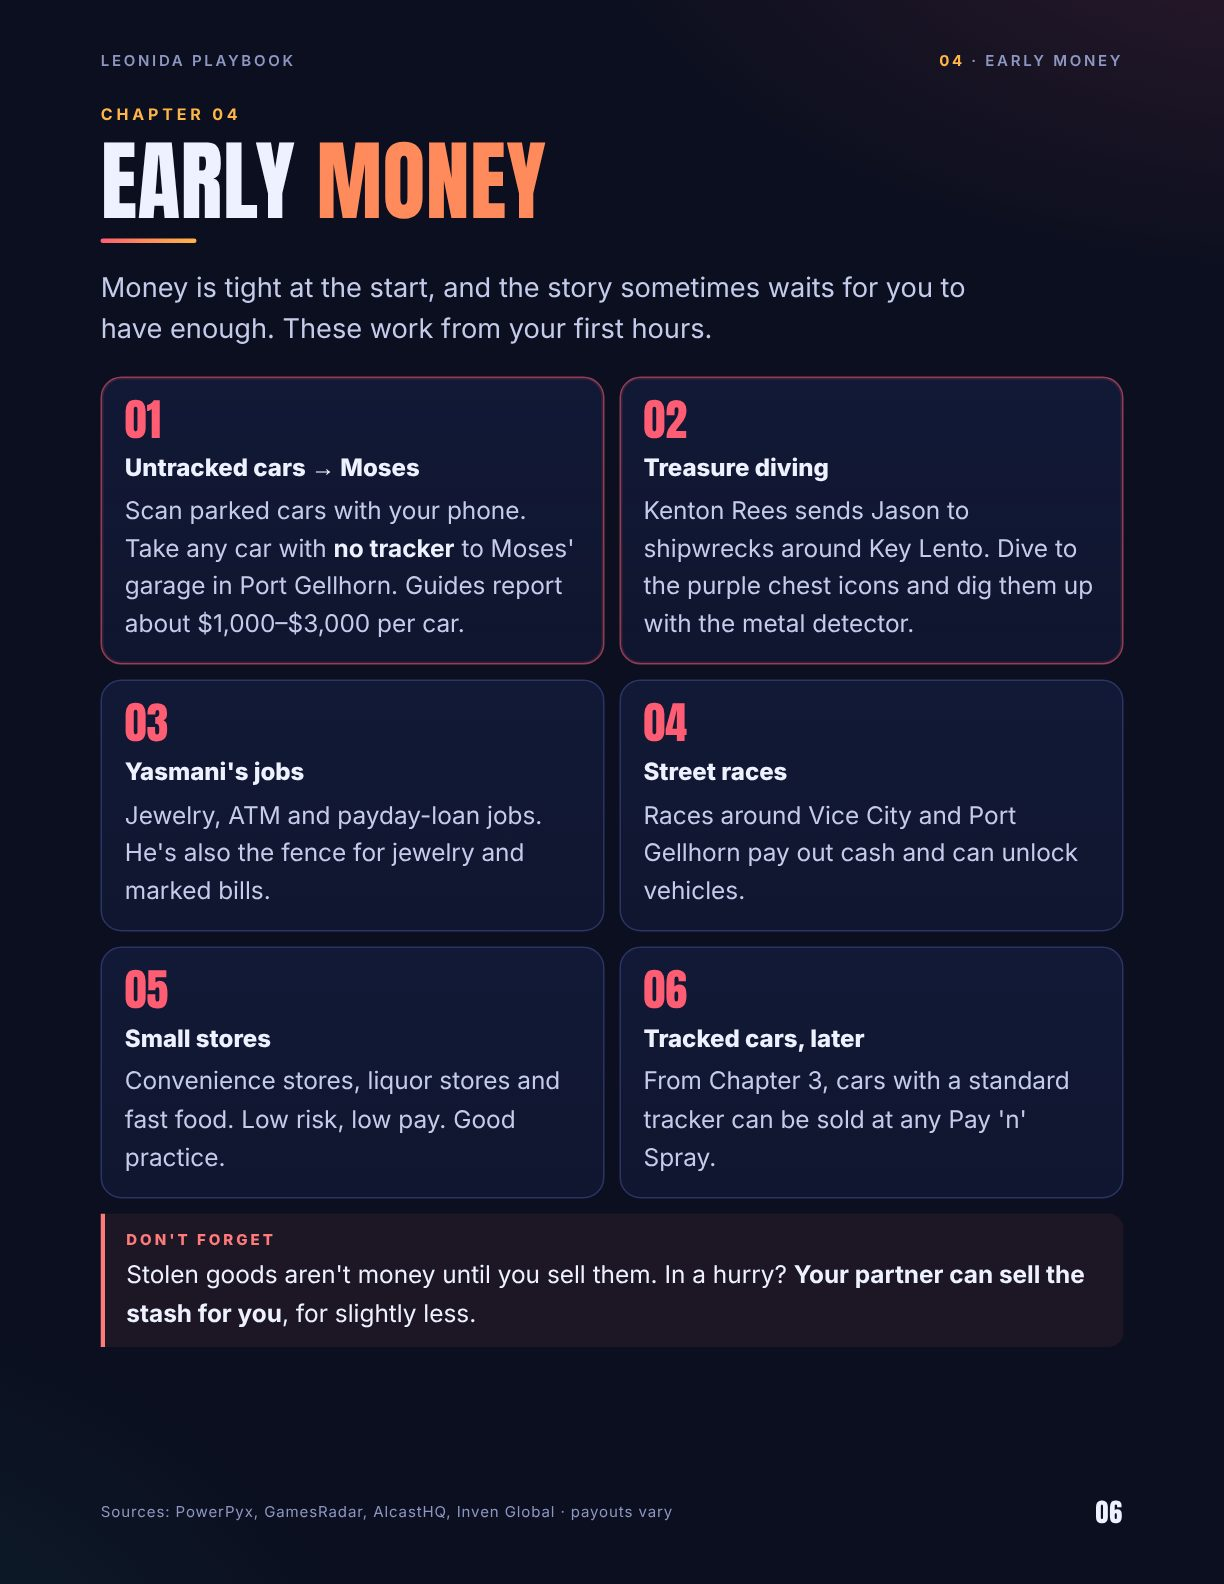
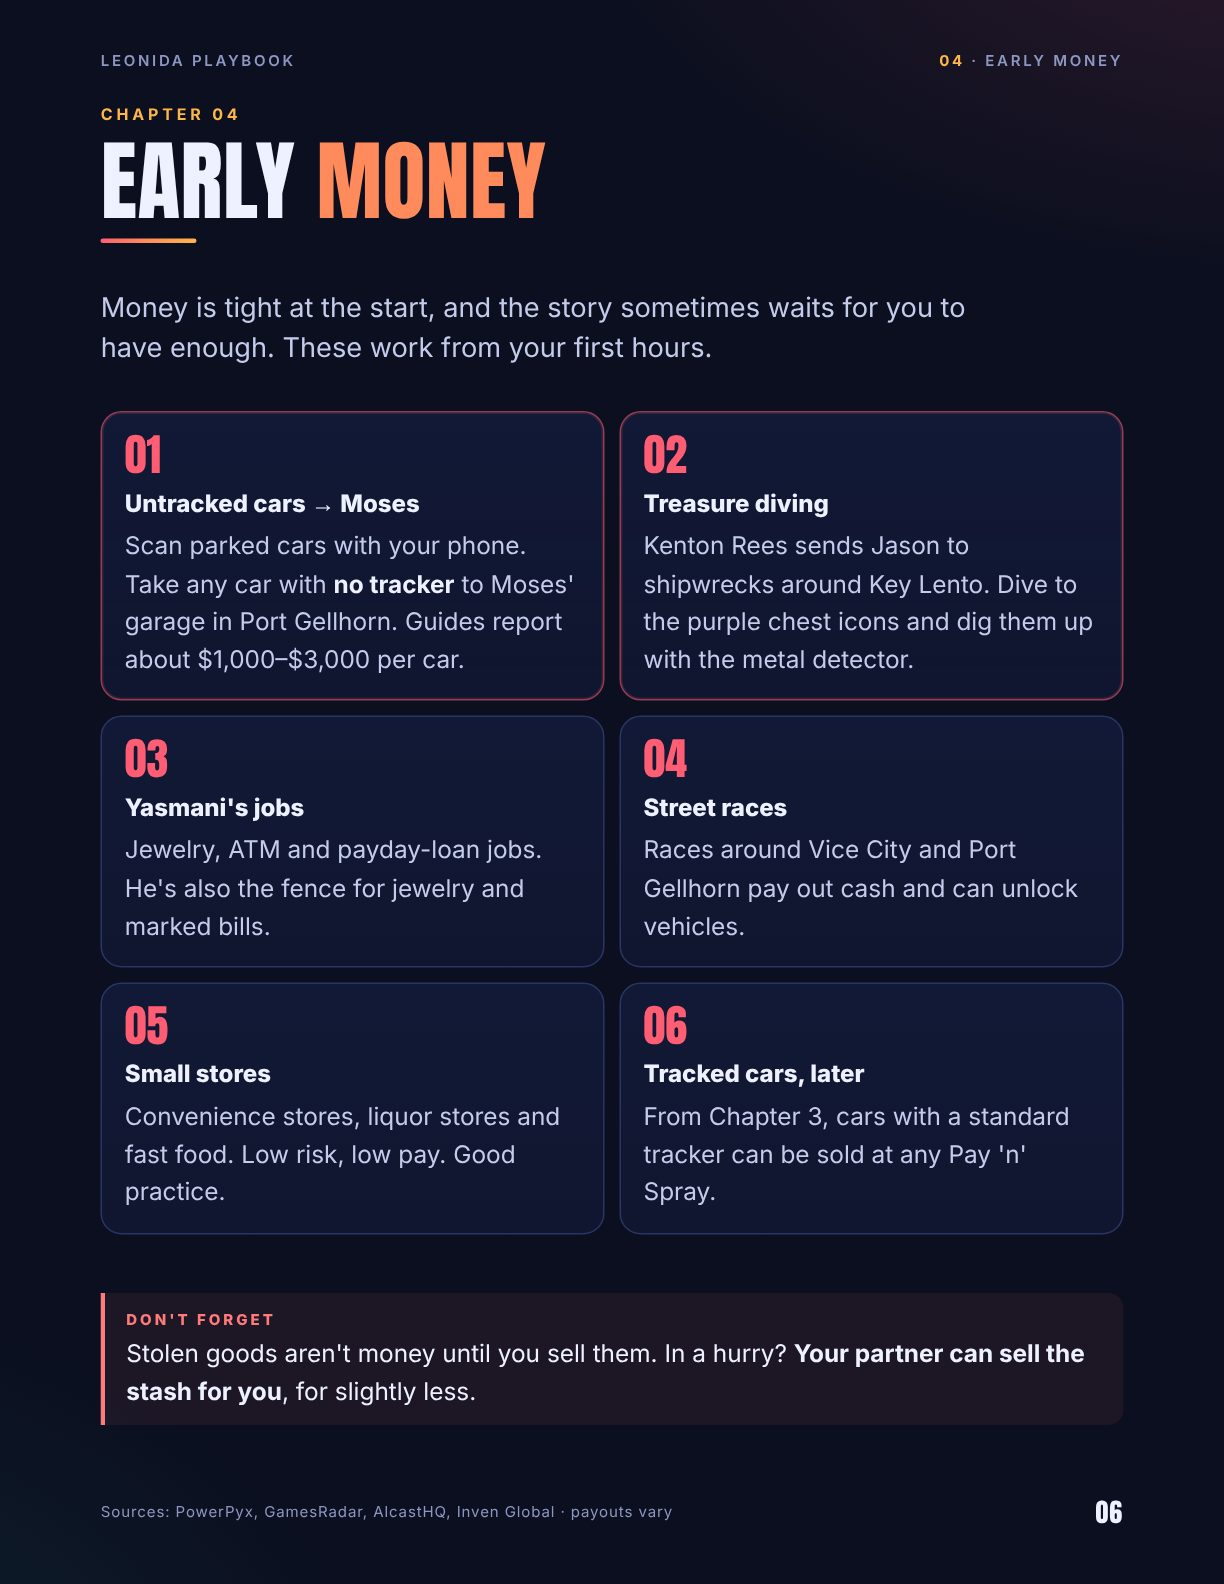
Pełne strony w PDF (równe rozmieszczenie, dodatkowe wskazówki)
Claude-Session: https://claude.ai/code/session_01N4FyqEDLHZdtmckfSThfyW

Changed region(s): [[0.0621, 0.1547, 0.9314, 0.8971]]

diff --git a/gta6-guide/tools/build.js b/gta6-guide/tools/build.js
@@ -9,6 +9,23 @@ const src = 'file://' + path.join(root, 'guide', 'guide.html');
 const pdfOut = path.join(root, 'dist', 'Leonida-Playbook-GTA-VI-Guide.pdf');
 const prevDir = path.join(root, 'site', 'img');
 
+
+// Spread leftover space evenly between blocks so every page looks full.
+const fillPages = () => {
+  document.querySelectorAll('.page:not(.cover2)').forEach(pg => {
+    const kids = [...pg.querySelectorAll(':scope > *')].filter(e => !e.matches('.foot,.run,svg,.meta'));
+    if (kids.length < 3) return;
+    const R = pg.getBoundingClientRect();
+    const bottom = Math.max(...kids.map(e => e.getBoundingClientRect().bottom));
+    const gap = R.bottom - 0.62 * 96 - 12 - bottom;
+    if (gap <= 4) return;
+    const movable = kids.slice(3); // keep kicker, title, rule tight
+    if (!movable.length) return;
+    const each = Math.min(gap / movable.length, 40);
+    movable.forEach(e => { const cs = getComputedStyle(e); e.style.marginTop = (parseFloat(cs.marginTop) + each) + 'px'; });
+  });
+};
+
 (async () => {
   fs.mkdirSync(path.dirname(pdfOut), { recursive: true });
   fs.mkdirSync(prevDir, { recursive: true });
@@ -16,6 +33,7 @@ const prevDir = path.join(root, 'site', 'img');
   const page = await browser.newPage({ viewport: { width: 816, height: 1056 } });
   await page.goto(src, { waitUntil: 'networkidle' });
   await page.evaluate(() => document.fonts.ready);
+  await page.evaluate(fillPages);
 
   // Overflow check: any element whose bottom extends past its page's content area.
   const problems = await page.evaluate(() => {
@@ -41,6 +59,7 @@ const prevDir = path.join(root, 'site', 'img');
   const hi = await browser.newPage({ viewport: { width: 816, height: 1056 }, deviceScaleFactor: 1.5 });
   await hi.goto(src, { waitUntil: 'networkidle' });
   await hi.evaluate(() => document.fonts.ready);
+  await hi.evaluate(fillPages);
   const pages = await hi.$$('.page');
   const targets = scale ? Object.entries(pick) : pages.map((_, i) => ['p' + String(i + 1).padStart(2, '0'), i + 1]);
   for (const [name, n] of targets) {
